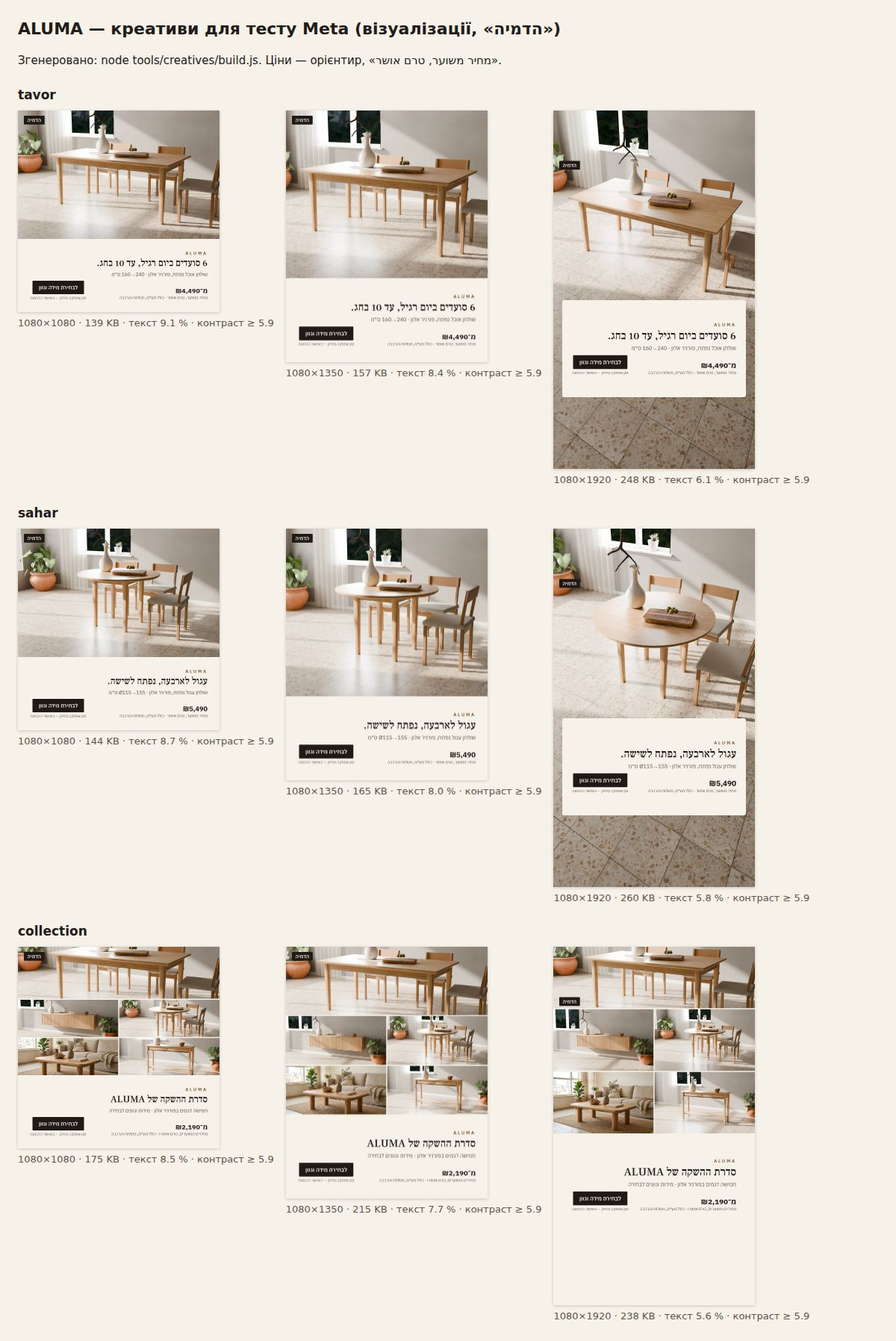
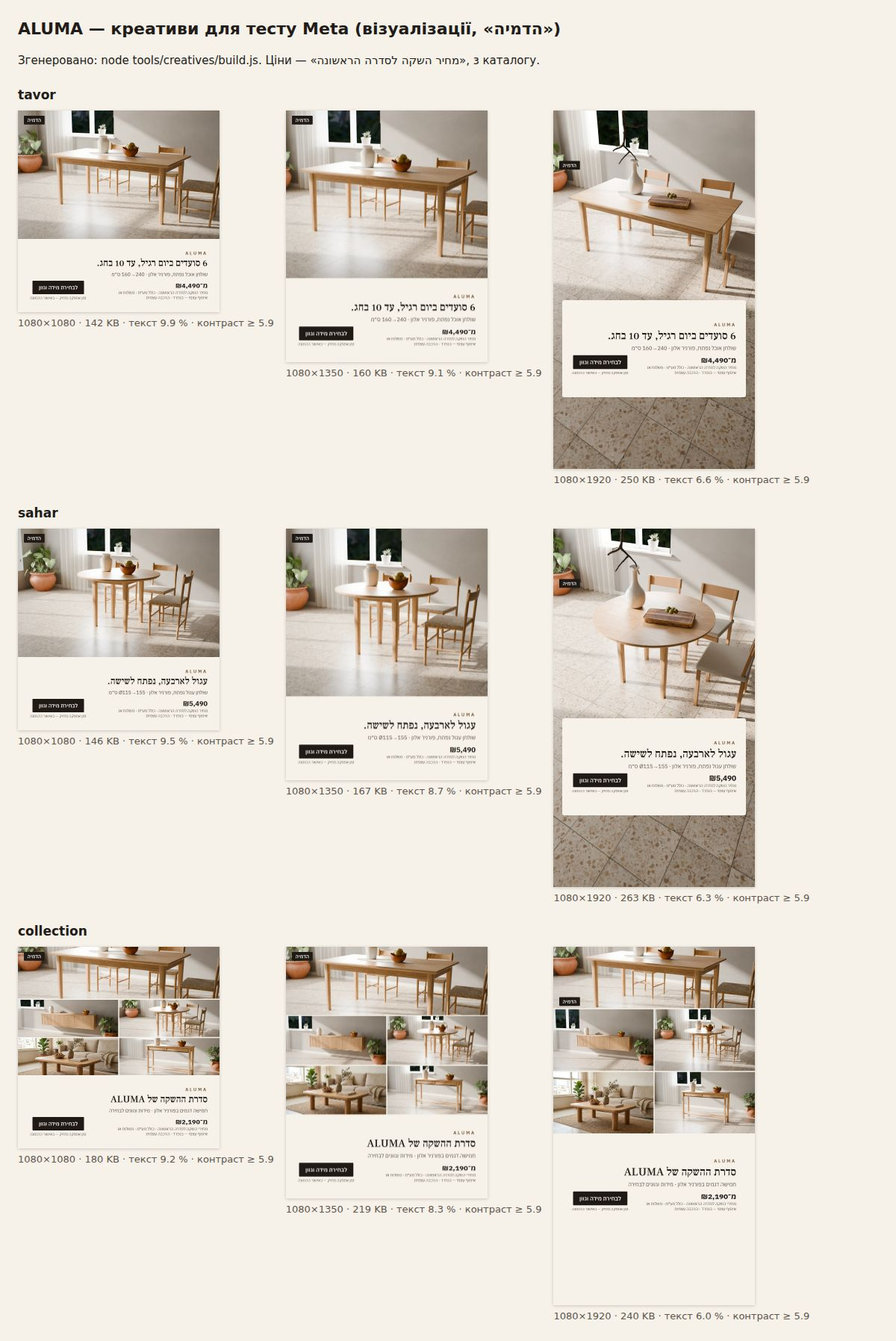
fix(creatives): ціна першої серії, доставка окремо — як на сайті
Підвал креативів Meta казав «ціна орієнтовна, не підтверджена · з ПДВ, доставкою
і складанням», а сайт з хвилі 1 (22.10) — ціна першої серії з ПДВ, доставка чи
самовивіз окремо, складання своє. Гість клікав на «доставку включено» і йшов.

- creatives.json he/ru: price_note «מחיר השקה לסדרה הראשונה» / «Цена первой серии»,
  includes — ПДВ у ціні, доставка або самовивіз окремо, складання своє. Суми
  доставки нема (вона у власника на перегляді); хвилин складання теж — ~10 хв
  на сайті сказано лише про TAVOR.
- Перегенеровано статику he і ru (tavor, sahar, collection × 1:1, 4:5, 9:16);
  карусель тонів вийшла байт-у-байт тією самою — ціни в ній нема.
- docs/META-TEST.md §3, §4а: тексти 8 оголошень без «משוער / ориентировочная»;
  SAHAR без «מ־» і «ціна оновиться» — ціна одна, основа її не міняє.
- Тести: нові рядки, жодного старого обіцяння і суми доставки.

Claude-Session: https://claude.ai/code/session_01LrvsockCgUwpRV5ikPZVAx

diff --git a/docs/creatives/ru/preview.html b/docs/creatives/ru/preview.html
@@ -5,8 +5,8 @@
 h1{font-size:22px;margin:0 0 16px}h2{font-size:17px;margin:24px 0 8px}.row{display:flex;gap:16px;align-items:flex-start;flex-wrap:wrap}
 figure{margin:0}img{display:block;height:auto;max-width:100%;box-shadow:0 1px 4px rgba(0,0,0,.18)}figcaption{font-size:13px;color:#5E554C;margin-top:6px}</style>
 </head><body><h1>ALUMA — креативи для тесту Meta (візуалізації, «Визуализация»)</h1>
-<p>Згенеровано: node tools/creatives/build.js --lang ru. Ціни — орієнтир, «Ориентировочная цена, ещё не подтверждена».</p>
-<section><h2>tavor</h2><div class="row"><figure><img src="tavor-1080x1080.jpg" alt="tavor 1080×1080" width="270" height="270"><figcaption>1080×1080 · 157 KB · текст 13.8 % · контраст ≥ 5.9</figcaption></figure><figure><img src="tavor-1080x1350.jpg" alt="tavor 1080×1350" width="270" height="337.5"><figcaption>1080×1350 · 173 KB · текст 12.7 % · контраст ≥ 5.9</figcaption></figure><figure><img src="tavor-1080x1920.jpg" alt="tavor 1080×1920" width="270" height="480"><figcaption>1080×1920 · 266 KB · текст 9.2 % · контраст ≥ 5.9</figcaption></figure></div></section>
-<section><h2>sahar</h2><div class="row"><figure><img src="sahar-1080x1080.jpg" alt="sahar 1080×1080" width="270" height="270"><figcaption>1080×1080 · 169 KB · текст 15.7 % · контраст ≥ 5.9</figcaption></figure><figure><img src="sahar-1080x1350.jpg" alt="sahar 1080×1350" width="270" height="337.5"><figcaption>1080×1350 · 189 KB · текст 14.6 % · контраст ≥ 5.9</figcaption></figure><figure><img src="sahar-1080x1920.jpg" alt="sahar 1080×1920" width="270" height="480"><figcaption>1080×1920 · 287 KB · текст 10.6 % · контраст ≥ 5.9</figcaption></figure></div></section>
-<section><h2>collection</h2><div class="row"><figure><img src="collection-1080x1080.jpg" alt="collection 1080×1080" width="270" height="270"><figcaption>1080×1080 · 189 KB · текст 11.3 % · контраст ≥ 5.9</figcaption></figure><figure><img src="collection-1080x1350.jpg" alt="collection 1080×1350" width="270" height="337.5"><figcaption>1080×1350 · 225 KB · текст 10.2 % · контраст ≥ 5.9</figcaption></figure><figure><img src="collection-1080x1920.jpg" alt="collection 1080×1920" width="270" height="480"><figcaption>1080×1920 · 250 KB · текст 7.4 % · контраст ≥ 5.9</figcaption></figure></div></section>
+<p>Згенеровано: node tools/creatives/build.js --lang ru. Ціни — «Цена первой серии», з каталогу.</p>
+<section><h2>tavor</h2><div class="row"><figure><img src="tavor-1080x1080.jpg" alt="tavor 1080×1080" width="270" height="270"><figcaption>1080×1080 · 159 KB · текст 14.2 % · контраст ≥ 5.9</figcaption></figure><figure><img src="tavor-1080x1350.jpg" alt="tavor 1080×1350" width="270" height="337.5"><figcaption>1080×1350 · 175 KB · текст 13.0 % · контраст ≥ 5.9</figcaption></figure><figure><img src="tavor-1080x1920.jpg" alt="tavor 1080×1920" width="270" height="480"><figcaption>1080×1920 · 268 KB · текст 9.4 % · контраст ≥ 5.9</figcaption></figure></div></section>
+<section><h2>sahar</h2><div class="row"><figure><img src="sahar-1080x1080.jpg" alt="sahar 1080×1080" width="270" height="270"><figcaption>1080×1080 · 169 KB · текст 16.1 % · контраст ≥ 5.9</figcaption></figure><figure><img src="sahar-1080x1350.jpg" alt="sahar 1080×1350" width="270" height="337.5"><figcaption>1080×1350 · 190 KB · текст 14.8 % · контраст ≥ 5.9</figcaption></figure><figure><img src="sahar-1080x1920.jpg" alt="sahar 1080×1920" width="270" height="480"><figcaption>1080×1920 · 288 KB · текст 10.8 % · контраст ≥ 5.9</figcaption></figure></div></section>
+<section><h2>collection</h2><div class="row"><figure><img src="collection-1080x1080.jpg" alt="collection 1080×1080" width="270" height="270"><figcaption>1080×1080 · 192 KB · текст 11.7 % · контраст ≥ 5.9</figcaption></figure><figure><img src="collection-1080x1350.jpg" alt="collection 1080×1350" width="270" height="337.5"><figcaption>1080×1350 · 229 KB · текст 10.5 % · контраст ≥ 5.9</figcaption></figure><figure><img src="collection-1080x1920.jpg" alt="collection 1080×1920" width="270" height="480"><figcaption>1080×1920 · 252 KB · текст 7.6 % · контраст ≥ 5.9</figcaption></figure></div></section>
 </body></html>

diff --git a/docs/creatives/preview.html b/docs/creatives/preview.html
@@ -5,8 +5,8 @@
 h1{font-size:22px;margin:0 0 16px}h2{font-size:17px;margin:24px 0 8px}.row{display:flex;gap:16px;align-items:flex-start;flex-wrap:wrap}
 figure{margin:0}img{display:block;height:auto;max-width:100%;box-shadow:0 1px 4px rgba(0,0,0,.18)}figcaption{font-size:13px;color:#5E554C;margin-top:6px}</style>
 </head><body><h1>ALUMA — креативи для тесту Meta (візуалізації, «הדמיה»)</h1>
-<p>Згенеровано: node tools/creatives/build.js. Ціни — орієнтир, «מחיר משוער, טרם אושר».</p>
-<section><h2>tavor</h2><div class="row"><figure><img src="tavor-1080x1080.jpg" alt="tavor 1080×1080" width="270" height="270"><figcaption>1080×1080 · 139 KB · текст 9.1 % · контраст ≥ 5.9</figcaption></figure><figure><img src="tavor-1080x1350.jpg" alt="tavor 1080×1350" width="270" height="337.5"><figcaption>1080×1350 · 157 KB · текст 8.4 % · контраст ≥ 5.9</figcaption></figure><figure><img src="tavor-1080x1920.jpg" alt="tavor 1080×1920" width="270" height="480"><figcaption>1080×1920 · 248 KB · текст 6.1 % · контраст ≥ 5.9</figcaption></figure></div></section>
-<section><h2>sahar</h2><div class="row"><figure><img src="sahar-1080x1080.jpg" alt="sahar 1080×1080" width="270" height="270"><figcaption>1080×1080 · 144 KB · текст 8.7 % · контраст ≥ 5.9</figcaption></figure><figure><img src="sahar-1080x1350.jpg" alt="sahar 1080×1350" width="270" height="337.5"><figcaption>1080×1350 · 165 KB · текст 8.0 % · контраст ≥ 5.9</figcaption></figure><figure><img src="sahar-1080x1920.jpg" alt="sahar 1080×1920" width="270" height="480"><figcaption>1080×1920 · 260 KB · текст 5.8 % · контраст ≥ 5.9</figcaption></figure></div></section>
-<section><h2>collection</h2><div class="row"><figure><img src="collection-1080x1080.jpg" alt="collection 1080×1080" width="270" height="270"><figcaption>1080×1080 · 175 KB · текст 8.5 % · контраст ≥ 5.9</figcaption></figure><figure><img src="collection-1080x1350.jpg" alt="collection 1080×1350" width="270" height="337.5"><figcaption>1080×1350 · 215 KB · текст 7.7 % · контраст ≥ 5.9</figcaption></figure><figure><img src="collection-1080x1920.jpg" alt="collection 1080×1920" width="270" height="480"><figcaption>1080×1920 · 238 KB · текст 5.6 % · контраст ≥ 5.9</figcaption></figure></div></section>
+<p>Згенеровано: node tools/creatives/build.js. Ціни — «מחיר השקה לסדרה הראשונה», з каталогу.</p>
+<section><h2>tavor</h2><div class="row"><figure><img src="tavor-1080x1080.jpg" alt="tavor 1080×1080" width="270" height="270"><figcaption>1080×1080 · 142 KB · текст 9.9 % · контраст ≥ 5.9</figcaption></figure><figure><img src="tavor-1080x1350.jpg" alt="tavor 1080×1350" width="270" height="337.5"><figcaption>1080×1350 · 160 KB · текст 9.1 % · контраст ≥ 5.9</figcaption></figure><figure><img src="tavor-1080x1920.jpg" alt="tavor 1080×1920" width="270" height="480"><figcaption>1080×1920 · 250 KB · текст 6.6 % · контраст ≥ 5.9</figcaption></figure></div></section>
+<section><h2>sahar</h2><div class="row"><figure><img src="sahar-1080x1080.jpg" alt="sahar 1080×1080" width="270" height="270"><figcaption>1080×1080 · 146 KB · текст 9.5 % · контраст ≥ 5.9</figcaption></figure><figure><img src="sahar-1080x1350.jpg" alt="sahar 1080×1350" width="270" height="337.5"><figcaption>1080×1350 · 167 KB · текст 8.7 % · контраст ≥ 5.9</figcaption></figure><figure><img src="sahar-1080x1920.jpg" alt="sahar 1080×1920" width="270" height="480"><figcaption>1080×1920 · 263 KB · текст 6.3 % · контраст ≥ 5.9</figcaption></figure></div></section>
+<section><h2>collection</h2><div class="row"><figure><img src="collection-1080x1080.jpg" alt="collection 1080×1080" width="270" height="270"><figcaption>1080×1080 · 180 KB · текст 9.2 % · контраст ≥ 5.9</figcaption></figure><figure><img src="collection-1080x1350.jpg" alt="collection 1080×1350" width="270" height="337.5"><figcaption>1080×1350 · 219 KB · текст 8.3 % · контраст ≥ 5.9</figcaption></figure><figure><img src="collection-1080x1920.jpg" alt="collection 1080×1920" width="270" height="480"><figcaption>1080×1920 · 240 KB · текст 6.0 % · контраст ≥ 5.9</figcaption></figure></div></section>
 </body></html>

diff --git a/tools/creatives/build.js b/tools/creatives/build.js
@@ -263,7 +263,7 @@ function previewHtml(rows, formats, cfg) {
 h1{font-size:22px;margin:0 0 16px}h2{font-size:17px;margin:24px 0 8px}.row{display:flex;gap:16px;align-items:flex-start;flex-wrap:wrap}
 figure{margin:0}img{display:block;height:auto;max-width:100%;box-shadow:0 1px 4px rgba(0,0,0,.18)}figcaption{font-size:13px;color:#5E554C;margin-top:6px}</style>
 </head><body><h1>ALUMA — креативи для тесту Meta (візуалізації, «${esc(cfg.mark)}»)</h1>
-<p>Згенеровано: node tools/creatives/build.js${cfg.lang === 'he' ? '' : ` --lang ${cfg.lang}`}. Ціни — орієнтир, «${esc(cfg.price_note)}».</p>
+<p>Згенеровано: node tools/creatives/build.js${cfg.lang === 'he' ? '' : ` --lang ${cfg.lang}`}. Ціни — «${esc(cfg.price_note)}», з каталогу.</p>
 ${cells}
 </body></html>
 `;

diff --git a/tests/test_quality_creatives.py b/tests/test_quality_creatives.py
@@ -59,11 +59,16 @@ class CreativeConfigTests(unittest.TestCase):
                 self.assertIn(pid, self.catalog, v["id"])
 
     def test_honest_text(self):
-        """Позначка візуалізації, ціна — орієнтир із «טרם אושר», жодної обіцянки, якої нема."""
+        """Позначка візуалізації; ціна — як на сайті з хвилі 1 (faq «מחיר ההשקה לסדרה הראשונה», 23.10):
+        з ПДВ, доставка чи самовивіз окремо, складання своє; суми доставки нема (вона в власника на перегляді)."""
         self.assertEqual(self.cfg["mark"], "הדמיה")
-        self.assertIn("משוער", self.cfg["price_note"])
-        self.assertIn("טרם אושר", self.cfg["price_note"])
-        self.assertIn("טרם אושרו", self.cfg["price_note_many"])
+        self.assertEqual(self.cfg["price_note"], "מחיר השקה לסדרה הראשונה")
+        self.assertEqual(self.cfg["price_note_many"], "מחירי השקה לסדרה הראשונה")
+        for fact in ("כולל מע״מ", "משלוח", "איסוף", "בנפרד", "הרכבה עצמית"):
+            self.assertIn(fact, self.cfg["includes"].replace("\u00a0", " "))
+        for t in texts(self.cfg):
+            for old in ("משוער", "טרם אושר", "משלוח והרכבה", "350"):
+                self.assertNotIn(old, t)
         # магазин (specs/003-shop-funnel): ні «реєстрації», ні тижнів — лише те, що каже картка товару
         self.assertEqual(self.cfg["cta_note"], "זמן אספקה מדויק — באישור ההזמנה")
         for t in texts(self.cfg):
@@ -160,10 +165,14 @@ class RussianCreativeTests(unittest.TestCase):
         """Позначка, строк, що входить у ціну, і застереження — дослівно як на /ru/."""
         self.assertEqual(self.cfg["mark"], self.site["viz_tag"])
         self.assertEqual(self.cfg["cta_note"], self.site["lead_exact"])
-        # хвиля 1 (22.10): сайт — «цена с НДС», доставка окремо; креативи кампанії, що крутиться, — старими
-        # словами, їх змінює лише слово власника. Тому «includes» і застереження з сайтом більше не звіряємо.
-        self.assertIn("не подтверждена", self.cfg["price_note"])
-        self.assertIn("не подтверждены", self.cfg["price_note_many"])
+        # з 23.10 — як на сайті після хвилі 1 (faq «Это цена первой серии, с НДС; доставка — отдельно»)
+        self.assertEqual(self.cfg["price_note"], self.site["series_price"])
+        self.assertEqual(self.cfg["price_note_many"], "Цены первой серии")
+        for fact in ("с НДС", "доставка", "самовывоз", "отдельно", "сборка"):
+            self.assertIn(fact, self.cfg["includes"].replace("\u00a0", " "))
+        for t in texts(self.cfg):
+            for old in ("ориентировоч", "не подтвержд", "доставкой и сборкой", "350"):
+                self.assertNotIn(old, t.lower())
 
     def test_honest_text(self):
         taglines = [self.catalog[p]["tagline"]["ru"] for v in self.root["variants"] for p in v["products"]]
@@ -374,15 +383,15 @@ class MetaTestPlanTests(unittest.TestCase):
             self.assertNotIn("מקבלים מחיר השקה", t, "знижку раннім ніхто не підтвердив")
 
     def test_every_ad_says_what_the_price_includes(self):
-        """В описі кожного оголошення — фраза launch-bar сайту дослівно; ні «реєстрації», ні «без оплати», ні тижнів."""
+        """В описі кожного оголошення — ПДВ у ціні, доставка чи самовивіз окремо, складання своє (23.10, як на сайті);
+        ні «реєстрації», ні «без оплати», ні тижнів, ні суми доставки."""
         section = self.doc.split("## 3.", 1)[1].split("## 4.", 1)[0]
         descs = re.findall(r"^- \*\*Описание:\*\* (.+)$", section, re.M)
         self.assertEqual(len(descs), 4, descs)  # три креативи + карусель тонів
-        phrase = "המחיר כולל מע״מ, משלוח והרכבה"
+        phrase = "כולל מע״מ · משלוח או איסוף עצמי בנפרד · הרכבה עצמית"
         for d in descs:
             self.assertIn(phrase, d)
-        # з 22.10 (хвиля 1) сайт каже інше: доставка окремо (₪350 / самовивіз ₪0), ціна тверда. Документ —
-        # запис кампанії, що вже крутиться; зміна оголошень — лише словом власника (Meta не чіпаємо)
+        self.assertNotRegex(section, r"משוער|טרם אושר|משלוח והרכבה|₪\s*350|350\s*₪")
         for bad in ("הרשמה", "ללא תשלום", "שבועות"):
             self.assertNotIn(bad, self.doc.split("## 3.", 1)[1].split("## 4.", 1)[0])
 
@@ -429,9 +438,10 @@ class MetaTestGroupCTests(unittest.TestCase):
     def test_every_ad_says_what_the_price_includes(self):
         descs = re.findall(r"^- \*\*Описание:\*\* (.+)$", self.section, re.M)
         self.assertEqual(len(descs), 4, descs)
-        phrase = "в цену входят НДС, доставка и сборка"   # запис кампанії 22.10; сайт з хвилі 1 — інакше
+        phrase = "Цена первой серии · с НДС · доставка или самовывоз отдельно · сборка своими руками"
         for d in descs:
             self.assertIn(phrase, d)
+        self.assertNotRegex(self.section, r"(?i)ориентировоч|не подтвержд|доставка и сборка|₪\s*350|350\s*₪")
 
 
 PAGEKIT = ROOT / "tools" / "creatives" / "pagekit.json"

diff --git a/tests/test_meta_ru.py b/tests/test_meta_ru.py
@@ -1,5 +1,5 @@
-"""docs/META-TEST.md §4а «Группа C — русский»: ціни в текстах — з каталогу, у кожному основному тексті — що ціна
-орієнтовна і як влаштована оплата (не на сайті, спершу дзвінок і письмове підтвердження). Посилання, назви й заборони
+"""docs/META-TEST.md §4а «Группа C — русский»: ціни в текстах — з каталогу, у кожному основному тексті — що це ціна
+першої серії з ПДВ (з 23.10, як на сайті), ні «орієнтовної», і як влаштована оплата (не на сайті, спершу дзвінок і письмове підтвердження). Посилання, назви й заборони
 перевіряє tests/test_quality_creatives.py — тут їх не дублюємо."""
 
 from __future__ import annotations
@@ -32,7 +32,9 @@ class MetaRussianGroupTests(unittest.TestCase):
     def test_every_text_says_how_payment_works(self):
         self.assertEqual(len(self.blocks), 4)
         for b in self.blocks:
-            self.assertIn("ориентировочн", b.lower(), b)
+            self.assertIn("первой серии", b, b)
+            self.assertIn("с НДС", b, b)
+            self.assertNotIn("ориентировочн", b.lower(), b)
             self.assertRegex(b, r"Оплата[^\n]*(не на сайте|только после)", b)
 
     def test_funnel_by_language_is_mentioned(self):

diff --git a/docs/META-TEST.md b/docs/META-TEST.md
@@ -3,8 +3,8 @@
 План для владельца. **В Meta ничего не создано и не запущено**: кампанию создаёт владелец своими руками и
 только после своего «да» на бюджет. Источник цифр — `~/maestro/reports/aluma-ekonomika-i-test-2026-10-20.md`
 (20.10.2026), товары и цены — `catalog/products.json`. **Все цены и сроки — предварительные**: на сайте и в
-креативах рядом с ними стоит «מחיר משוער, טרם אושר», на сайте — в корзине и на шаге «אישור» (цена — ориентир,
-фабрика не подтвердила).
+креативах рядом с ними стоит «מחיר השקה לסדרה הראשונה · כולל מע״מ · משלוח או איסוף עצמי — בנפרד» (с 23.10, как на
+сайте после волны 1 22.10); на сайте — в корзине и на шаге «אישור».
 
 Формат теста — **магазин с закрытой оплатой** (`specs/003-shop-funnel/spec.md`): карточка с ценой, размером и
 тоном → «הוספה לסל» → корзина, «להזמנה» → шаги «סל · משלוח · אישור»: город и «מתי צריך?», «המשך לאישור ההזמנה»
@@ -136,10 +136,10 @@
 - **Основной текст:**
   ```text
   אותו שולחן אוכל נפתח, חמישה גוונים של פורניר אלון — מהבהיר ועד השחור.
-  בוחרים גוון, מידה ובסיס באתר ורואים את המחיר המשוער המלא (טרם אושר).
+  בוחרים גוון, מידה ובסיס באתר ורואים את מחיר ההשקה, כולל מע״מ; משלוח או איסוף עצמי — בנפרד.
   ```
 - **Заголовок:** תבור בחמישה גוונים של פורניר אלון
-- **Описание:** המחיר כולל מע״מ, משלוח והרכבה · הגוון במסך הוא קירוב
+- **Описание:** כולל מע״מ · משלוח או איסוף עצמי בנפרד · הרכבה עצמית · הגוון במסך הוא קירוב
 - **Кнопка:** Shop now («Купить» / «לקנייה» в интерфейсе Meta)
 
 **Кнопка во всех четырёх объявлениях — Shop now.** Гость попадает в магазин: выбирает размер и тон, кладёт товар в
@@ -155,12 +155,12 @@
   ```text
   שולחן אוכל מפורניר אלון שנפתח מ־160 ל־240 ס״מ: שישה סועדים ביום רגיל, עד עשרה בחג.
   פורניר אלון, קנטים מעץ מלא, רגלי אלון או פלדה. סדרת השקה.
-  מחיר משוער מ־₪4,490 (טרם אושר) · זמן אספקה מדויק — באישור ההזמנה.
-  בוחרים מידה וגוון באתר ורואים את המחיר המלא.
+  מחיר השקה מ־₪4,490, כולל מע״מ · זמן אספקה מדויק — באישור ההזמנה.
+  בוחרים מידה וגוון באתר ורואים את המחיר מיד; משלוח או איסוף עצמי — בסל.
   ```
 - **Заголовок:** 6 סועדים ביום רגיל, עד 10 בחג.
   (места — из `seats` каталога для 160→240, как в креативах; рынок IL продаёт столы числом мест — разведка Ad Library 21.10)
-- **Описание:** המחיר כולל מע״מ, משלוח והרכבה · פורניר אלון
+- **Описание:** כולל מע״מ · משלוח או איסוף עצמי בנפרד · הרכבה עצמית
 - **Кнопка:** Shop now
 
 ### Креатив 2 — SAHAR (סהר), круглый раздвижной Ø115→155
@@ -170,11 +170,11 @@
   ```text
   שולחן עגול לארבעה שנפתח לשישה — בלי לוותר על פינת האוכל הקטנה.
   פורניר אלון בחמישה גוונים, קנט מעץ מלא, רגלי אלון או עמוד פלדה שחור.
-  מחיר משוער מ־₪5,490 (טרם אושר) · זמן אספקה מדויק — באישור ההזמנה.
-  בוחרים גוון ובסיס — והמחיר מתעדכן מיד.
+  מחיר השקה ₪5,490, כולל מע״מ · זמן אספקה מדויק — באישור ההזמנה.
+  בוחרים גוון ובסיס באתר; משלוח או איסוף עצמי — בסל.
   ```
 - **Заголовок:** עגול לארבעה. נפתח לשישה.
-- **Описание:** המחיר כולל מע״מ, משלוח והרכבה · סדרת השקה
+- **Описание:** כולל מע״מ · משלוח או איסוף עצמי בנפרד · הרכבה עצמית
 - **Кнопка:** Shop now
 
 ### Креатив 3 — коллекция (карусель OFEK, SAF, TAL, TAVOR, SAHAR)
@@ -185,22 +185,22 @@
   ```text
   סדרת השקה של רהיטי אלון: שולחן אוכל נפתח, שולחן עגול, מזנון תלוי, קונסולה ושולחן סלון.
   פורניר אלון בחמישה גוונים, רגלי אלון או פלדה, מידות לבחירה.
-  המחירים משוערים וטרם אושרו · זמן אספקה מדויק — באישור ההזמנה.
+  מחירי השקה מ־₪2,190, כולל מע״מ · זמן אספקה מדויק — באישור ההזמנה.
   ```
 - **Заголовок карточек:** OFEK — מזנון תלוי · SAF — קונסולה 35 ס״מ · TAL — שולחן סלון · TAVOR — נפתח ל־10 סועדים ·
   SAHAR — עגול לשישה
 - **Заголовок:** סדרת ההשקה של ALUMA
-- **Описание:** המחיר כולל מע״מ, משלוח והרכבה
+- **Описание:** כולל מע״מ · משלוח או איסוף עצמי בנפרד · הרכבה עצמית
 - **Кнопка:** Shop now
 
 **Ссылки объявлений:** креатив 1 ведёт на `/p/tavor/`, креатив 2 — на `/p/sahar/`, креатив 3 — на `/catalog/`.
 Якорей `/#tavor`, `/#sahar` на главной нет — по ним гость попал бы в начало страницы, а не к столу.
 
-**Обещания в тексте.** «Цену получите» не обещаем: цена ещё не утверждена, скидку для ранних никто не
-подтвердил. Дефицита («מספר יחידות מוגבל»), скидок, отзывов и счётчиков в рекламе нет — тот же список запретов,
+**Обещания в тексте.** Цена — цена первой серии, с НДС, как на сайте; скидку для ранних никто не подтвердил.
+Сумму доставки в рекламе не пишем (она у владельца на пересмотре): только «доставка или самовывоз — отдельно». Дефицита («מספר יחידות מוגבל»), скидок, отзывов и счётчиков в рекламе нет — тот же список запретов,
 что у креативов (`tests/test_quality_creatives.py`). Срока в неделях нет ни в рекламе, ни на сайте; «регистрации»
 и «бесплатно, без обязательств» тоже нет — сайт теперь магазин, а не лист ожидания. В описании всех объявлений —
-фраза launch-bar сайта «המחיר כולל מע״מ, משלוח והרכבה»; кнопка на креативах — «לבחירת מידה וגוון», под ней
+«כולל מע״מ · משלוח או איסוף עצמי בנפרד · הרכבה עצמית» (с 23.10: сайт после волны 1 — доставка отдельно, сборка своя); кнопка на креативах — «לבחירת מידה וגוון», под ней
 «זמן אספקה מדויק — באישור ההזמנה», как на карточке товара.
 
 ## 4. UTM-шаблон
@@ -252,12 +252,12 @@ checkout_details) → шаг «Подтверждение» (`co_step_pay`, reac
   ```text
   Раздвижной обеденный стол из дубового шпона: от 160 до 240 см. В будни — шесть человек за столом, в праздник — до десяти.
   Натуральный дубовый шпон, кромки из массива дуба, дубовые ножки или чёрная сталь. Стартовая серия.
-  Ориентировочная цена от 4 490 ₪, ещё не подтверждена · точный срок доставки — при подтверждении заказа.
-  Выберите размер и тон на сайте — и сразу увидите полную цену.
+  Цена первой серии от 4 490 ₪, с НДС · точный срок доставки — при подтверждении заказа.
+  Выберите размер и тон на сайте — цена обновится сразу; доставку или самовывоз выберете в корзине.
   Оплата не на сайте: мы звоним, письменно подтверждаем цену, спецификацию и срок, и только потом оплата.
   ```
 - **Заголовок:** В будни — 6 за столом, в праздник — до 10.
-- **Описание:** Стартовая серия · в цену входят НДС, доставка и сборка
+- **Описание:** Цена первой серии · с НДС · доставка или самовывоз отдельно · сборка своими руками
 
 ### C2 — SAHAR
 
@@ -265,12 +265,12 @@ checkout_details) → шаг «Подтверждение» (`co_step_pay`, reac
   ```text
   Круглый стол на четверых, который раскрывается на шестерых, — для небольшой обеденной зоны.
   Натуральный дубовый шпон в пяти тонах, кромка из массива дуба, дубовые ножки или центральная опора из чёрной стали.
-  Ориентировочная цена 5 490 ₪, ещё не подтверждена · точный срок доставки — при подтверждении заказа.
-  Выберите тон и основание — цена обновится сразу.
+  Цена первой серии 5 490 ₪, с НДС · точный срок доставки — при подтверждении заказа.
+  Выберите тон и основание на сайте; доставку или самовывоз — в корзине.
   Оплата не на сайте: мы звоним, письменно подтверждаем цену, спецификацию и срок, и только потом оплата.
   ```
 - **Заголовок:** Круглый на четверых. Раскрывается — и садятся шестеро.
-- **Описание:** Стартовая серия · в цену входят НДС, доставка и сборка
+- **Описание:** Цена первой серии · с НДС · доставка или самовывоз отдельно · сборка своими руками
 
 ### C3 — коллекция
 
@@ -278,11 +278,11 @@ checkout_details) → шаг «Подтверждение» (`co_step_pay`, reac
   ```text
   Стартовая серия дубовой мебели: раздвижной обеденный стол, круглый стол, подвесная тумба под ТВ, консоль и журнальный стол.
   Натуральный дубовый шпон в пяти тонах, дубовые ножки или сталь, размеры на выбор.
-  Цены ориентировочные, ещё не подтверждены · точный срок доставки — при подтверждении заказа.
+  Цены первой серии от 2 190 ₪, с НДС · точный срок доставки — при подтверждении заказа.
   Оплата не на сайте: мы звоним, письменно подтверждаем цену, спецификацию и срок, и только потом оплата.
   ```
 - **Заголовок:** Стартовая серия ALUMA
-- **Описание:** Стартовая серия · в цену входят НДС, доставка и сборка
+- **Описание:** Цена первой серии · с НДС · доставка или самовывоз отдельно · сборка своими руками
 
 ### C4 — карусель «один стол в пяти тонах»
 
@@ -290,16 +290,16 @@ checkout_details) → шаг «Подтверждение» (`co_step_pay`, reac
 - **Основной текст:**
   ```text
   Один и тот же раздвижной обеденный стол — пять тонов дубового шпона, от светлого до чёрного.
-  Выберите тон, размер и основание на сайте и посмотрите полную ориентировочную цену (ещё не подтверждена).
+  Выберите тон, размер и основание на сайте и посмотрите цену первой серии, с НДС; доставка или самовывоз — отдельно.
   Оплата — только после звонка и письменного подтверждения заказа.
   ```
 - **Заголовок:** TAVOR в пяти тонах дубового шпона
-- **Описание:** Стартовая серия · в цену входят НДС, доставка и сборка · на экране тон передаётся приблизительно
+- **Описание:** Цена первой серии · с НДС · доставка или самовывоз отдельно · сборка своими руками · на экране тон передаётся приблизительно
 
 **Обещания в тексте — те же, что в разделе 3.** Скидок, акций, «осталось N», «только сегодня», отзывов, «лет на рынке»
 и счётчиков нет. Шпон называется шпоном, «массив» — только про кромки. Срока в неделях и «регистрации» нет. В описании
-каждого объявления — фраза launch-bar русской версии сайта «в цену входят НДС, доставка и сборка». В каждом основном
-тексте — что цена ориентировочная и как устроена оплата: не на сайте, сначала звонок и письменное подтверждение цены,
+каждого объявления — «Цена первой серии · с НДС · доставка или самовывоз отдельно · сборка своими руками» (с 23.10, как на сайте). В каждом основном
+тексте — что это цена первой серии с НДС и как устроена оплата: не на сайте, сначала звонок и письменное подтверждение цены,
 спецификации и срока. Запреты проверяет `tests/test_quality_creatives.py` (`FORBIDDEN_RU`), цены и оплату —
 `tests/test_meta_ru.py`.
 
